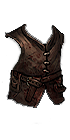
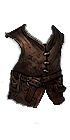
add rusted mail patch and bloodstained tunic recolors

Changed region(s): [[0.5429, 0.6286, 0.9429, 0.7714], [0.6857, 0.1714, 0.7714, 0.2857], [0.3714, 0.7429, 0.5429, 0.7714]]

diff --git a/buildscript/python/armor/defs.py b/buildscript/python/armor/defs.py
@@ -49,7 +49,7 @@ class Defs:
         {"name": "pauldrons_padding_fur", "min" : 1, "max" : 1, "layer": "attachment", "impactSound" : "leather", "invSound" : "cloth", "front_back": { "front" : [-56,4,-57,21], "front_dead" : [-2,50,-69,13], "back": [15,55,-54,16], "back_dead": [-58,-12,-48,26] }},
         {"name": "pauldrons_padding_light", "min" : 1, "max" : 5, "layer": "attachment", "impactSound" : "leather", "invSound" : "cloth"},
         {"name": "pauldrons_protective_runes", "min" : 1, "max" : 1, "layer": "attachment", "impactSound" : "leather", "invSound" : "leather"},
-        {"name": "pauldrons_rusted_mail_patch", "min" : 1, "max" : 1, "layer": "attachment", "impactSound" : "chain", "invSound" : "chain"},
+        {"name": "pauldrons_rusted_mail_patch", "min" : 1, "max" : 3, "layer": "attachment", "impactSound" : "chain", "invSound" : "chain"},
         {"name": "pauldrons_shoulderplates_heraldic", "min" : 1, "max" : 5, "layer": "attachment", "impactSound" : "leather", "invSound" : "leather", "front_back": { "front" : [-47,-9,-39,3], "front_dead" : [2,44,-47,-5], "back": [23,49,-31,3], "back_dead": [-53,-31,-36,-2] }},
         {"name": "pauldrons_skull_chain", "min" : 1, "max" : 5, "layer": "attachment", "impactSound" : "chain", "invSound" : "chain"},
         {"name": "pauldrons_spiked_chain", "min" : 1, "max" : 4, "layer": "attachment", "impactSound" : "chain", "invSound" : "chain"},
@@ -439,7 +439,7 @@ class Defs:
  "adesc" : "Includes a well-crafted studded leather jacket.",
  "named" : { "con": { "min" : 35, "max" : 45 }, "fat": { "min" : 2, "max" : 1 }, "names" : ["Leather Cuirass", "Leather Armor", "Skin", "Peel", "Guard", "Coat", "Nightcloak", "Black Leather", "Dark Omen", "Toadskin", "Ogreskin"]  }
 },
-{"name": "leather_tunic_bloodstained",                   "layer": "plate", "min": 1, "max": 1, "value" : 20, "con" : 20, "stam" : -2, "impactSound" : "leather", "invSound" : "leather",
+{"name": "leather_tunic_bloodstained",                   "layer": "plate", "min": 1, "max": 6, "value" : 20, "con" : 20, "stam" : -2, "impactSound" : "leather", "invSound" : "leather",
  "title" :  "Bloodstained Tunic",
  "desc" :  "A leather tunic caked and crusted with dried remnants of past executions.",
  "adesc" : "Includes a bloodstained leather tunic."

diff --git a/Changelog.md b/Changelog.md
@@ -173,6 +173,8 @@
 > pause on new dawn while camping (when town buildings become usable after a night)
 > pause on new day (when contracts etc. reset)
 > pause on entity discovered
+> pause on movement stop
+> resume on setting new destination / path
 - added an option to show the average stat potential directly on statistic bars
 > shows average values at a glance (min/max ranges are still visible on mouseovering the bros background)
 - added an option to show the named item enhanced stat potential on tooltips
